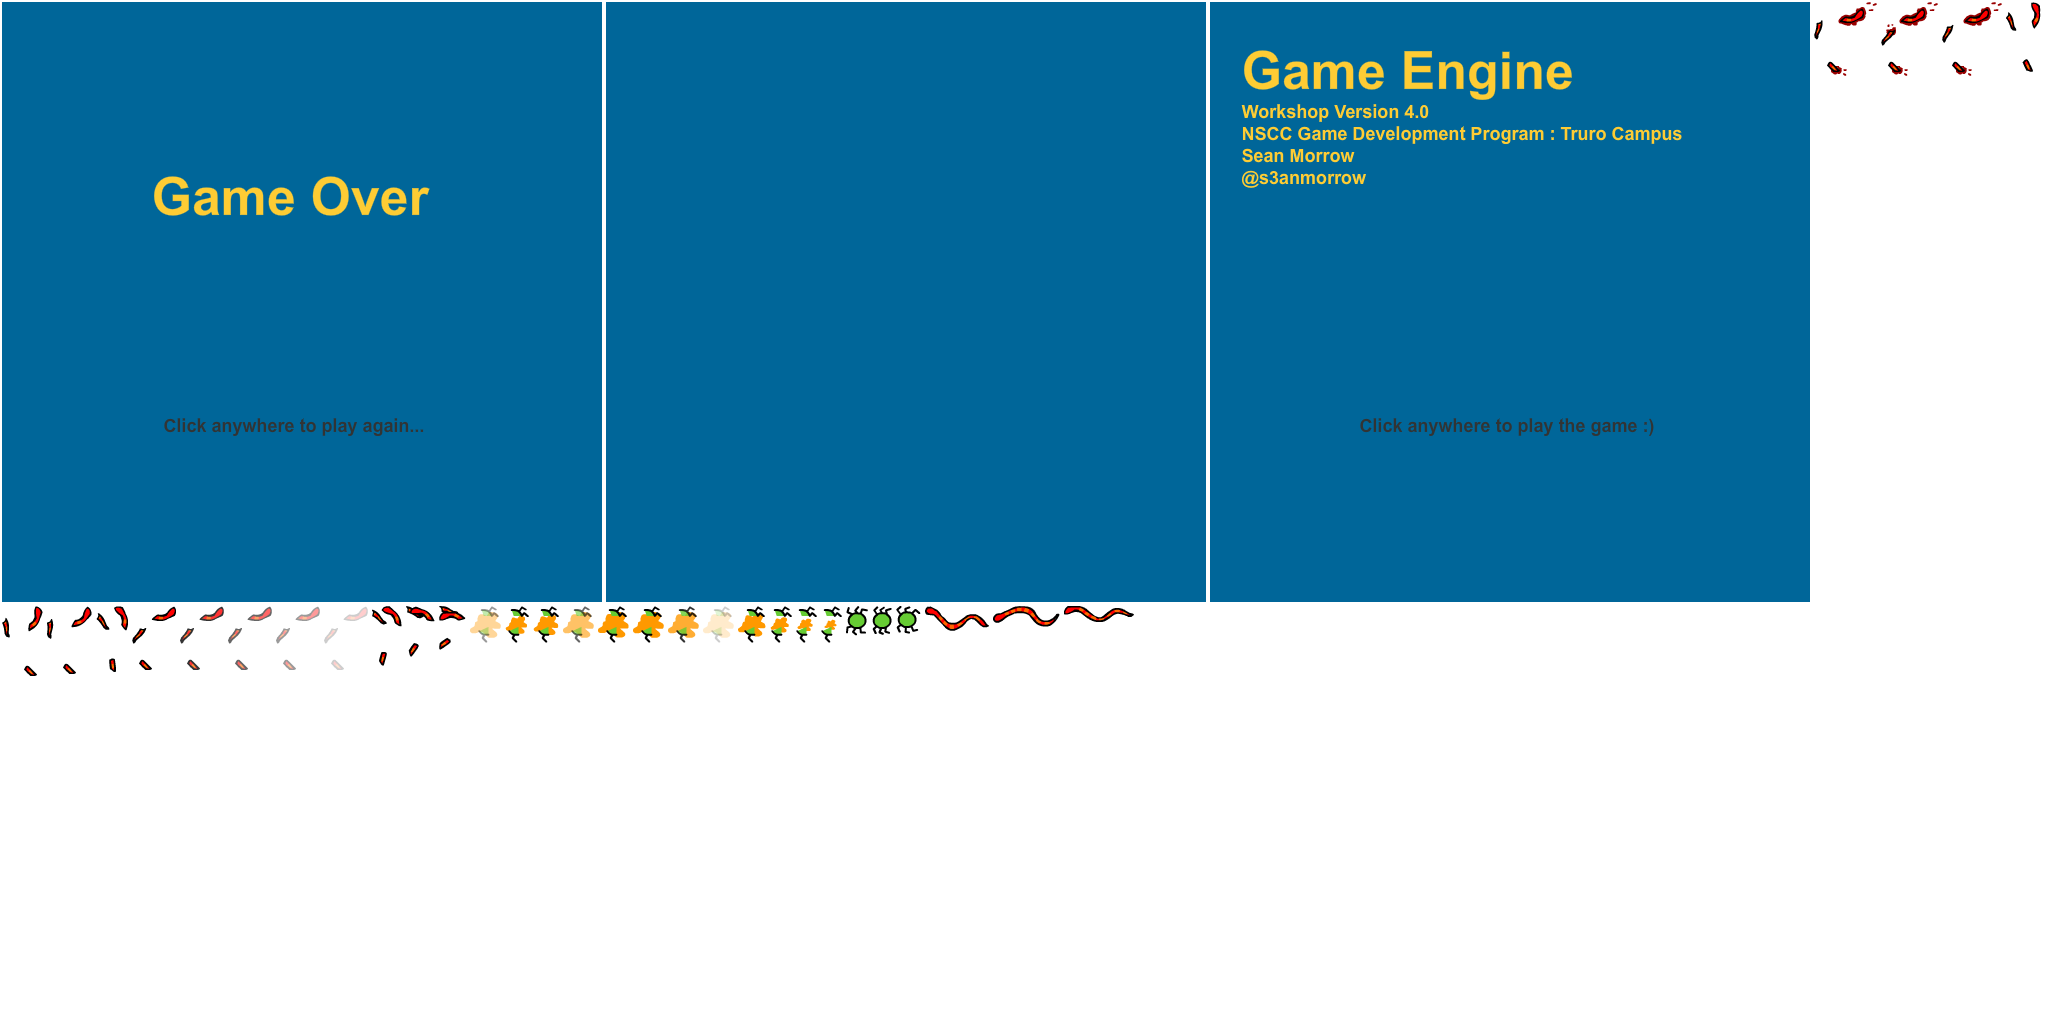
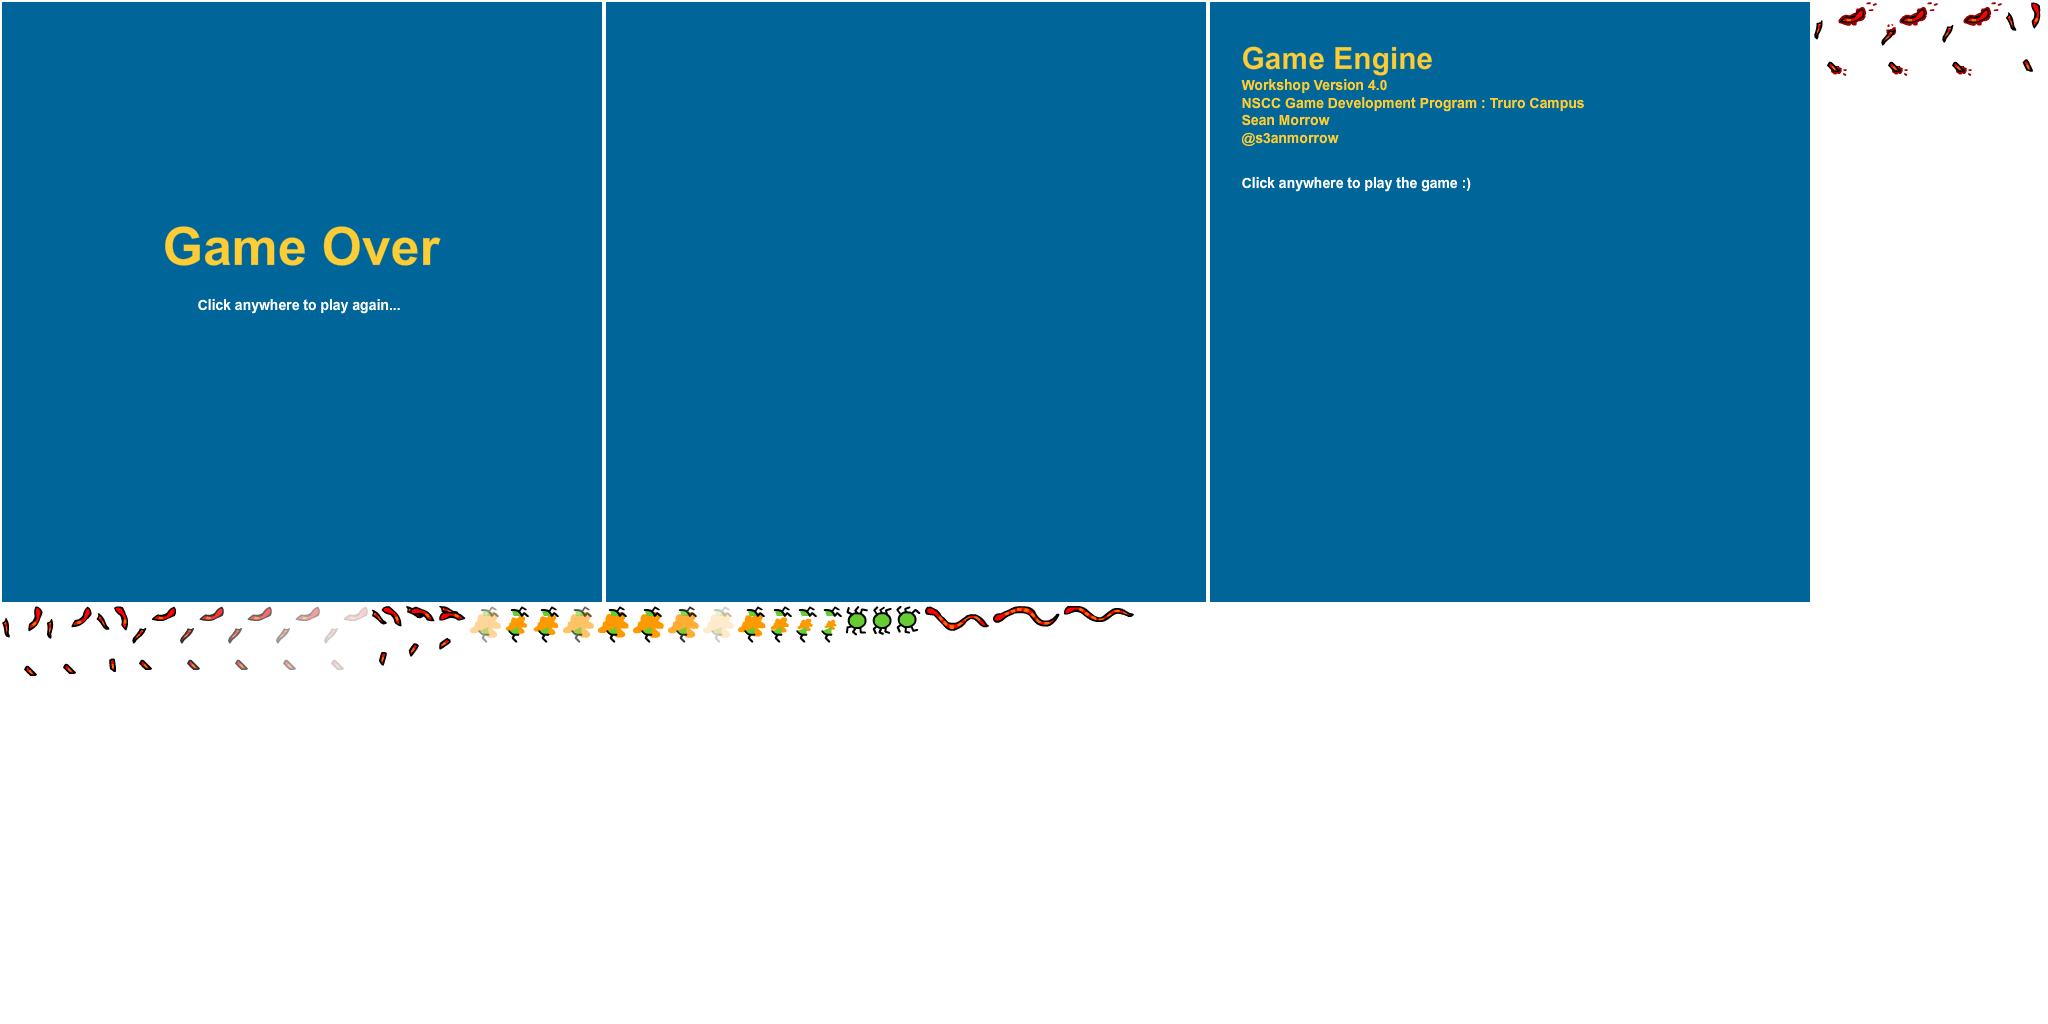
Game Over screen and cleanups - with bugs though (sad panda)

diff --git a/Game.js b/Game.js
@@ -88,7 +88,7 @@ function monitorCollisions() {
         var enemy = enemyPool[n];
         if (enemy.getAlive()) {
             if (ndgmr.checkPixelCollision(enemy.getSprite(), player.getSprite(), 1) !== false) {
-                player.killMe();
+                player.hitMe();
                 enemy.killMe();
             }
         }
@@ -150,9 +150,10 @@ function onReady(e) {
     gameScreen.gotoAndStop("gameScreen");
     overScreen = assetManager.getSprite("GameSprites");
     overScreen.gotoAndStop("overScreen");
+    overScreen.addEventListener("click", onResetGame);
     introScreen = assetManager.getSprite("GameSprites");
     introScreen.gotoAndStop("introScreen");
-    introScreen.addEventListener("click",onStartGame);
+    introScreen.addEventListener("click", onStartGame);
     stage.addChild(introScreen);
 
     // construct containers for game objects
@@ -171,8 +172,8 @@ function onReady(e) {
 }
 
 function onStartGame(e) {
+    // initialization
     playing = true;
-    // initialize current state of keys
     leftKey = false;
     rightKey = false;
     spaceKey = false;
@@ -191,6 +192,7 @@ function onStartGame(e) {
     stage.addEventListener("onEnemySurvived", onGameEvent, true);
     stage.addEventListener("onEnemyKilled", onGameEvent, true);
     stage.addEventListener("onPlayerKilled", onGameEvent, true);
+    stage.addEventListener("onPlayerHit", onGameEvent, true);
 
     // remove introScreen and add gameScreen
     stage.removeChild(introScreen);
@@ -198,9 +200,33 @@ function onStartGame(e) {
 }
 
 function onStopGame(e) {
+    // game cleanup
+    objectPool.dispose(player);
+    window.clearInterval(enemyTimer);
+    stage.removeChild(gameScreen);
+    stage.addChildAt(overScreen,0);
+
+    // kill everything
+    var length = updateList.length;
+	var target = null;
+	for (var n=0; n<length; n++) {
+		target = updateList[n];
+		if (target !== null) target.killMe();
+	}
+
+    // remove all event listeners
+    document.removeEventListener("keydown", onKeyDown);
+    document.removeEventListener("keyup", onKeyUp);
+    stage.removeAllEventListeners();
+
+    stage.removeChild(gameScreen);
+    stage.addChildAt(overScreen,0);
+}
+
+function onResetGame(e) {
     playing = false;
-
-
+    stage.removeChild(overScreen);
+    stage.addChildAt(introScreen,0);
 }
 
 function onKeyDown(e) {
@@ -235,16 +261,18 @@ function onGameEvent(e) {
 
     switch (e.type) {
         case "onEnemySurvived":
-            console.log("EVENT : enemy survived!");
+            player.hitMe();
             break;
         case "onEnemyKilled":
             console.log("EVENT : enemy killed!");
             break;
         case "onPlayerKilled":
             console.log("EVENT : player killed!");
+            onStopGame();
             break;
-
-
+        case "onPlayerHit":
+            console.log("EVENT : PLAYER HIT!");
+            break;
     }
 }
 

diff --git a/Player.js b/Player.js
@@ -8,16 +8,18 @@ var Player = function(){
     var assetmanager = window.asserManager;
 
     // custom events
+    var eventPlayerHit = new createjs.Event("onPlayerHit", true);
     var eventPlayerKilled = new createjs.Event("onPlayerKilled", true);
 
     // private property variables
     var speed = 4;
     var moving = MovingDirection.STOPPED;
     var alive = false;
+    var hitPoints = 0;
 
     // get sprite and setup
     var sprite = assetManager.getSprite("GameSprites");
-    //sprite.scaleX = 1;
+    sprite.scaleX = 1;
     sprite.gotoAndStop("snakeAlive");
     sprite.regX = sprite.getBounds().width / 2;
     sprite.regY = sprite.getBounds().height / 2;
@@ -43,9 +45,15 @@ var Player = function(){
         return alive;
     };
 
+    this.getHitPoints = function() {
+        return hitPoints;
+    };
+
     // --------------------------------------------------- public methods
     this.startMe = function() {
         alive = true;
+        sprite.gotoAndStop("snakeAlive");
+        hitPoints = GameSettings.hitPoints;
         sprite.x = 300;
         sprite.y = 500;
         stage.addChild(sprite);
@@ -65,6 +73,16 @@ var Player = function(){
     this.moveRight = function() {
         sprite.play();
         moving = MovingDirection.RIGHT;
+    };
+
+    this.hitMe = function() {
+        if (alive) {
+            hitPoints--;
+            sprite.dispatchEvent(eventPlayerHit);
+            if (hitPoints <= 0) {
+                this.killMe();
+            }
+        }
     };
 
     this.killMe = function() {
@@ -104,8 +122,8 @@ var Player = function(){
     function onKilled(e) {
         sprite.stop();
         sprite.removeEventListener("animationend", onKilled);
-        //stage.removeChild(sprite);
         sprite.dispatchEvent(eventPlayerKilled);
+        stage.removeChild(sprite);
     }
 
 };

diff --git a/ObjectPool.js b/ObjectPool.js
@@ -94,19 +94,17 @@ var ObjectPool = function() {
 		// which type of game object are we disposing?
 		if (o instanceof Player) {
 			playerPool[o.poolIndex].used = false;
-            console.log("dispose player @ pool index " + o.poolIndex);
+            //console.log("dispose player @ pool index " + o.poolIndex);
 		} else if (o instanceof Enemy) {
 			enemyPool[o.poolIndex].used = false;
-            console.log("dispose enemy @ pool index " + o.poolIndex);
+            //console.log("dispose enemy @ pool index " + o.poolIndex);
 		} else if (o instanceof Bullet) {
 			bulletPool[o.poolIndex].used = false;
-            console.log("dispose bullet @ pool index " + o.poolIndex);
+            //console.log("dispose bullet @ pool index " + o.poolIndex);
 		}
 
         // clear out disposed object from updateList
         updateList[o.usedIndex] = null;
-
-
 	}
 
 };

diff --git a/GameSettings.js b/GameSettings.js
@@ -3,11 +3,10 @@ var GameSettings = {
 
     // the framerate of the game - speeds or slows down the whole game
     "frameRate":30,
-    // the number of lives for the player
-    "lives":3,
-
     // the maximum number of bullets allowed to be shot at one time
-    "bulletMax":5
+    "bulletMax":5,
+    // the number of hitPoints the player starts with - hitPoints are taken away when a enemy gets away OR when the player touches an enemy
+    "hitPoints":3
 
 
 

diff --git a/Enemy.js b/Enemy.js
@@ -92,14 +92,10 @@ var Enemy = function() {
     };
 
     this.killMe = function() {
-
-        console.log("killing enemy");
-
         alive = false;
         this.stopMe();
         sprite.gotoAndPlay("bugDead");
         sprite.addEventListener("animationend", onKilled);
-
     };
 
     this.updateMe = function() {
